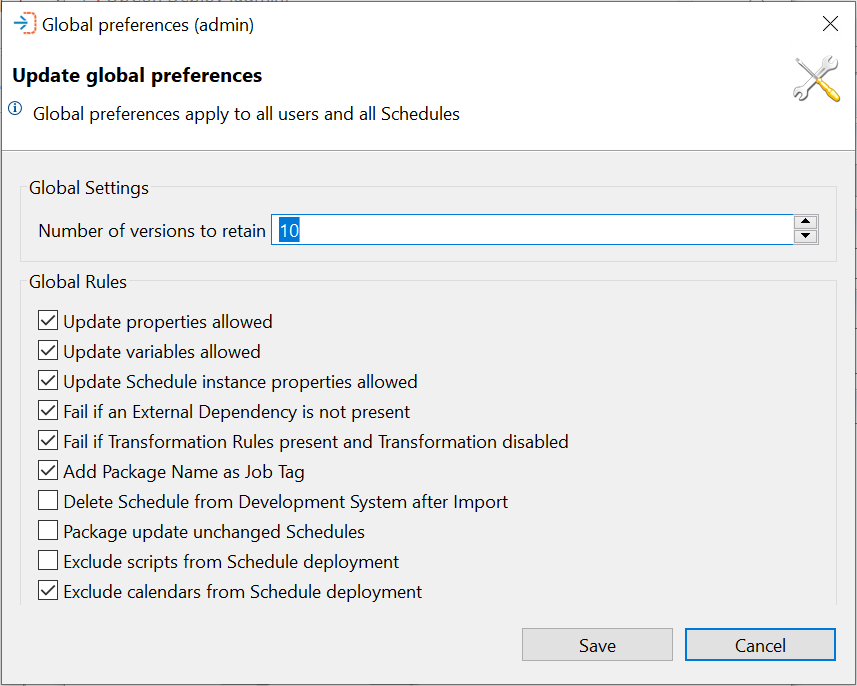
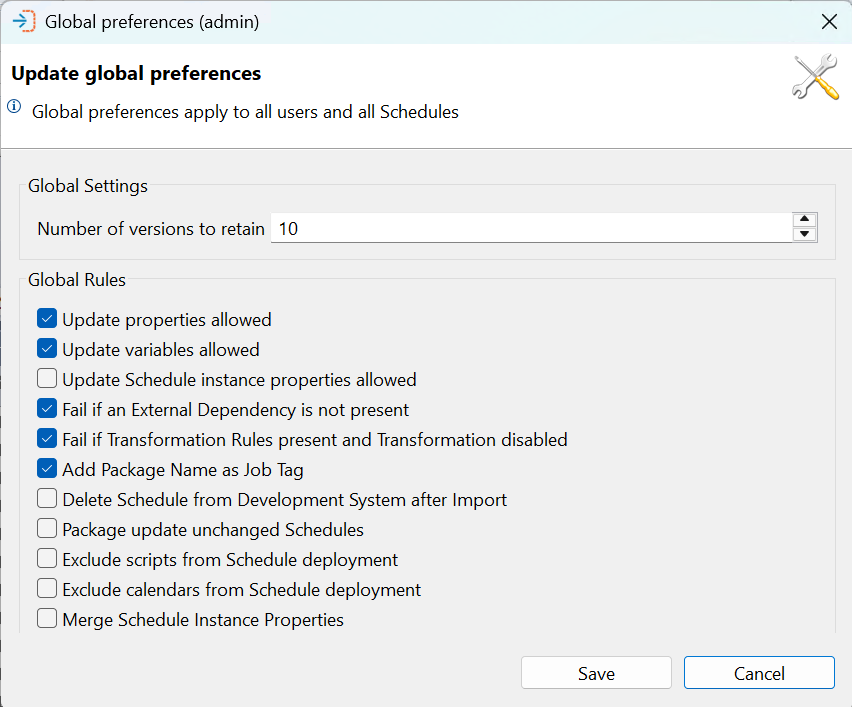
Deploy 25.2 Documentation updates

diff --git a/docs/release-notes.md b/docs/release-notes.md
@@ -14,6 +14,34 @@ Deploy contains compatibility checks to ensure that features supported in newer 
 The ImpEx2 Server portion of Deploy is paired with each specific OpCon release and is part of the OpCon Release. Therefore the ImpEx2 
 server for each release is patched and released within the OpCon release cycles.   
 
+## Version 25.2
+
+2025 August
+
+**Migration Considerations**
+
+New rule **Merge Schedule Instance Properties** indicates if schedule instance properties should be merged if rule **Update Schedule instance properties allowed** is not selected during the deployment process. The default value for the rule is false, so it will not have an impact on existing installations. 
+
+**New Features**
+
+:eight_spoked_asterisk: **OPCDEPLOY-1407**: Implemented new a new feature to correctly implement the merging of Schedule Instance Properties when the rule **Update Schedule instance properties allowed** is not selected. 
+
+This requires matching OpCon ImpEx2 versions
+- Cloud 25.3.0
+- OnPrem  25.0.4 / 23.0.12 / 22.0.22
+
+For more information see **Merge Schedule Instance Properties** rule in **settings** section.
+
+**Fixes**
+
+:eight_spoked_asterisk: **OPCDEPLOY-1400**: Fixed a problem during package creation when all versions selected when doing a schedule selection refresh.
+
+:eight_spoked_asterisk: **OPCDEPLOY-1409**: Fixed an External Dependencies loss problem during transformation when Schedule_Named_Instance transformation rule is defined.
+
+:eight_spoked_asterisk: **OPCDEPLOY-1411**: Fixed a problem when Job_Machine_Name transformation rule is defined and the machine names are not transformed in the Roles machineInfoList field.
+
+:eight_spoked_asterisk: **OPCDEPLOY-1413**: Fixed a problem when transforming system properties using the Environment attribute and the system property has a date offset value.
+
 ## Version 25.1
 
 2025 March

diff --git a/docs/administration/settings.md b/docs/administration/settings.md
@@ -70,3 +70,10 @@ When the Script_Name transformation rule is used, the users must ensure that the
 When enabled, this rule will prevent calendar updates during the deployment of schedules / packages. 
 * Calendar definitions are no longer imported into the Deploy database during schedule import.
 * Calendar definitions are no longer deployed along with schedules / packages.
+
+### Merge Schedule Instance Instance Properties
+
+This rule only works when **Update Schedule instance properties allowed** is not selected.
+
+When enabled, this rule will merge schedule instance properties only adding the new schedule instance properties to the existing schedule instance properties.
+ 

diff --git a/docs/index.md b/docs/index.md
@@ -7,7 +7,7 @@ sidebar_label: 'OpCon Deploy'
 
 OpCon Deploy is a separate application working on a central repository that contains the schedule definitions, transformation rules, and all the required configuration information to deploy the schedule definitions between OpCon environments in a controlled and consistent manner.
 
-The current version is **25.1**.
+The current version is **25.2**.
 
 ## Overview
 
